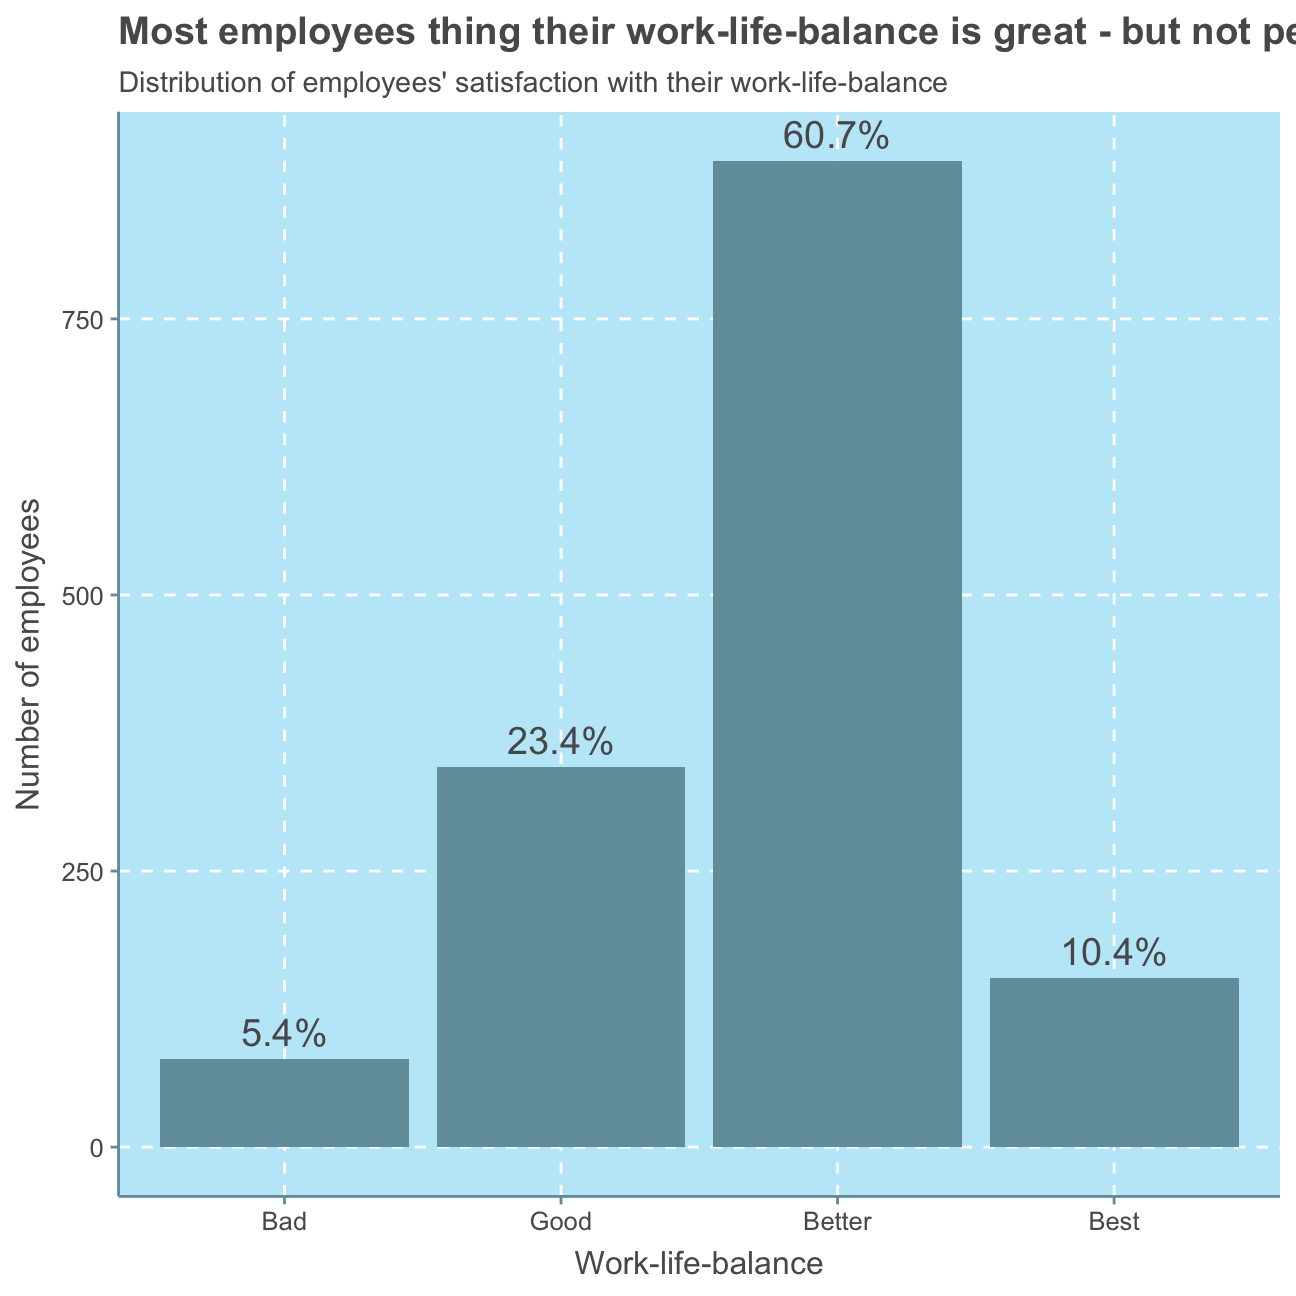
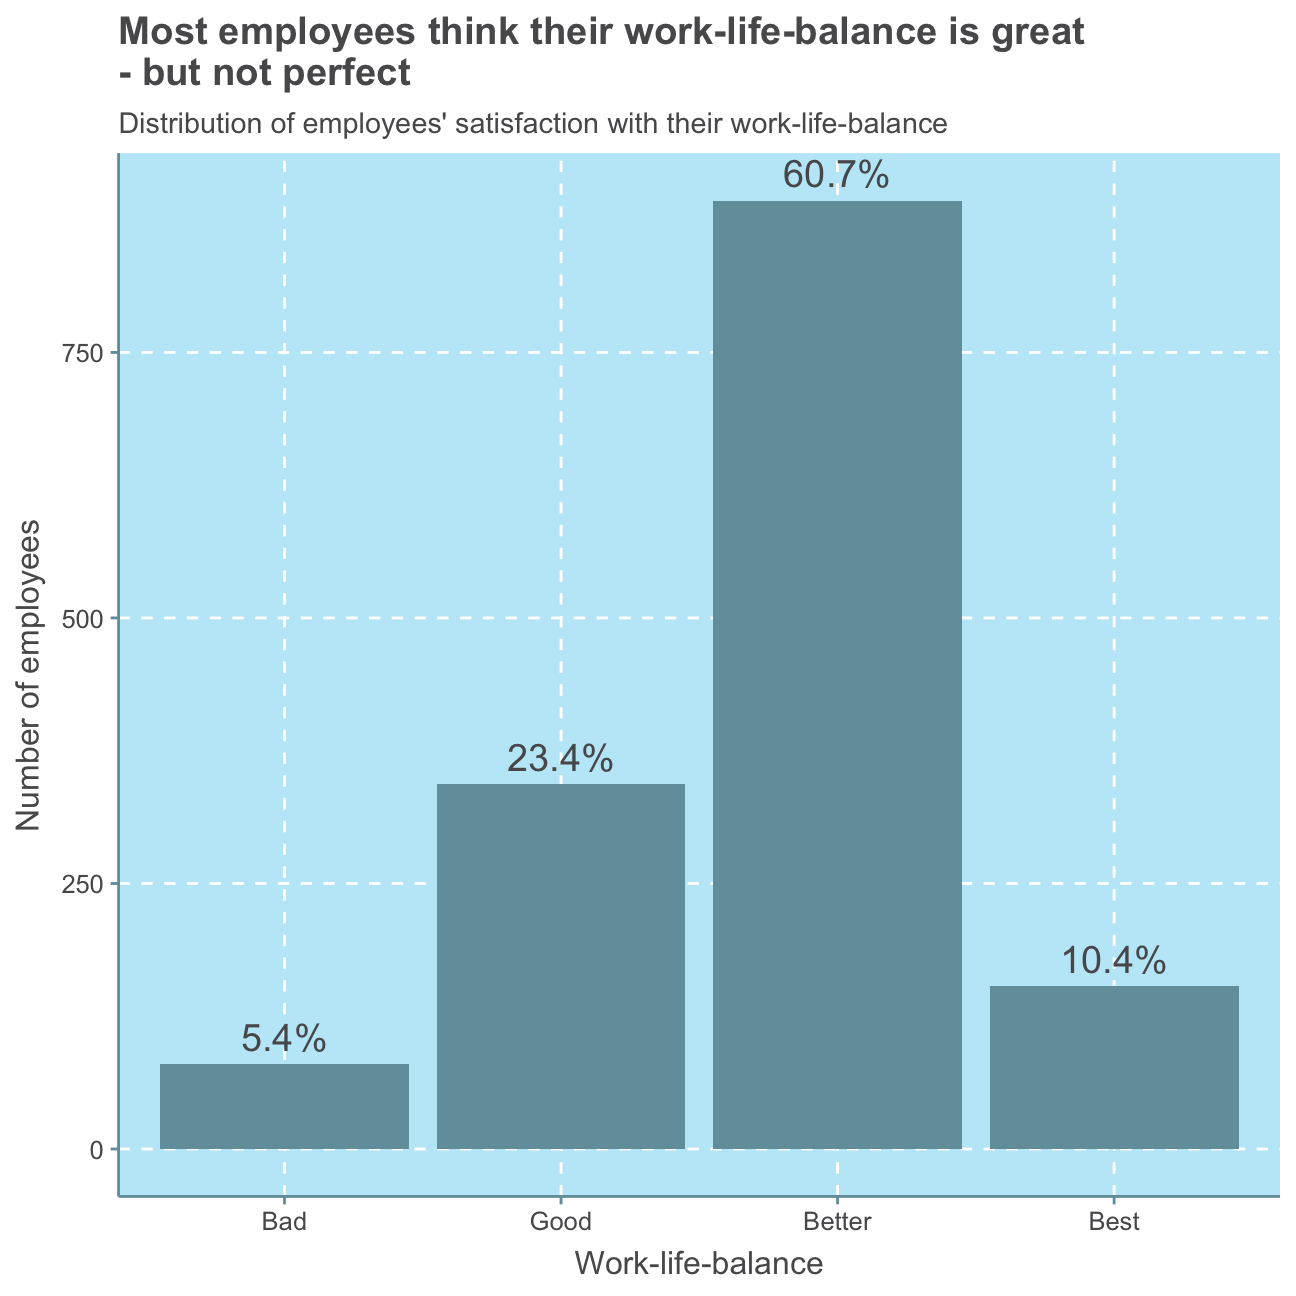
polished IBM HR project

diff --git a/public/projects/ibmhr/index.html b/public/projects/ibmhr/index.html
@@ -81,10 +81,10 @@
                             
 
 
-<p><img src="https://www.ibm.com/innovate/branding/logoartwork/logoartwork.nsf/IBM_logo_blue60_CMYK.jpg" /></p>
+<p>In the following project, we will investigate a data set on Human Resoruce Analytics. The <a href="https://www.kaggle.com/pavansubhasht/ibm-hr-analytics-attrition-dataset">IBM HR Analytics Employee Attrition &amp; Performance data set</a> is a fictional data set created by IBM data scientists.</p>
+<p>We start by loading and having a first look at the data, then cleaning the data, then visualizing some of the most relevant relationships between the variables of the data set and finish this analysis by drawing some conclusions about the interpretation of the data.</p>
 <div id="data-set" class="section level1">
 <h1>Data set</h1>
-<p>In this project, we analyse a data set on Human Resoruce Analytics. The <a href="https://www.kaggle.com/pavansubhasht/ibm-hr-analytics-attrition-dataset">IBM HR Analytics Employee Attrition &amp; Performance data set</a> is a fictional data set created by IBM data scientists.</p>
 <p>First, we load the data and have a first look at it.</p>
 <pre class="r"><code>#load data
 hr_dataset &lt;- vroom(here::here(&quot;data&quot;, &quot;datasets_1067_1925_WA_Fn-UseC_-HR-Employee-Attrition.csv&quot;))
@@ -1633,7 +1633,7 @@ ggplot(hr_cleaned,
             size = 5) + #size of label font
 
 #add plot labels
-            labs(title = &quot;Most employees thing their work-life-balance is great - but not perfect&quot;, 
+            labs(title = &quot;Most employees think their work-life-balance is great\n- but not perfect&quot;, 
                  subtitle = &quot;Distribution of employees&#39; satisfaction with their work-life-balance&quot;,
                  x = &quot;Work-life-balance&quot;,
                  y = &quot;Number of employees&quot;) +
@@ -1922,6 +1922,7 @@ ggplot(hr_cleaned,
 <p>To conclude, the <strong>IBM HR Analytics Employee Attrition &amp; Performance data set</strong> gives a broad overview of the dynamics of a group of employees in a fictional company. While we can observe an attrition rate of 19%, we cannot judge whether this is high or low as we have no indication of the industry in which this company works in and what is considered a high/low attrition rate there. We do, however, find that both job satisfaction and opinion on work-life balance are high/good. This indicates that most employees are satisfied and there is no high attrition due to an unpleasant work environment or stressful jobs.</p>
 <p>While we can observe an almost Normal distribution for the employees’ age, we find that the majority of employees has been at the company less then approx. 10 years. There are, however, a few people that have worked at the company for 20 or even over 30 years. We, further find that employees are relatively quickly promoted as for most employees, the last promotion is fewer than approx. 3 years ago while for almost no employee the last promotion is over 10 years ago. While there are a few people earning more than 10,000USD per month, the majority of employees earn below, indicating a common company structure with many low-salary jobs and only few high-salary jobs.</p>
 <p>When investigating the monthly income in detail, we neither find a distinct relationship between monthly income and education level nor between monthly income and gender. We do however find positive relationships between monthly income and age as well as monthly income and job role, indicating that an older employee is more likely to be in a senior job position and the more senior a job position is, the higher the salary.</p>
+<p><img src="https://www.ibm.com/innovate/branding/logoartwork/logoartwork.nsf/IBM_logo_blue60_CMYK.jpg" /></p>
 </div>
 
                         </div>

diff --git a/content/projects/ibmhr/index.html b/content/projects/ibmhr/index.html
@@ -15,10 +15,10 @@ output:
 
 
 
-<p><img src="https://www.ibm.com/innovate/branding/logoartwork/logoartwork.nsf/IBM_logo_blue60_CMYK.jpg" /></p>
+<p>In the following project, we will investigate a data set on Human Resoruce Analytics. The <a href="https://www.kaggle.com/pavansubhasht/ibm-hr-analytics-attrition-dataset">IBM HR Analytics Employee Attrition &amp; Performance data set</a> is a fictional data set created by IBM data scientists.</p>
+<p>We start by loading and having a first look at the data, then cleaning the data, then visualizing some of the most relevant relationships between the variables of the data set and finish this analysis by drawing some conclusions about the interpretation of the data.</p>
 <div id="data-set" class="section level1">
 <h1>Data set</h1>
-<p>In this project, we analyse a data set on Human Resoruce Analytics. The <a href="https://www.kaggle.com/pavansubhasht/ibm-hr-analytics-attrition-dataset">IBM HR Analytics Employee Attrition &amp; Performance data set</a> is a fictional data set created by IBM data scientists.</p>
 <p>First, we load the data and have a first look at it.</p>
 <pre class="r"><code>#load data
 hr_dataset &lt;- vroom(here::here(&quot;data&quot;, &quot;datasets_1067_1925_WA_Fn-UseC_-HR-Employee-Attrition.csv&quot;))
@@ -1567,7 +1567,7 @@ ggplot(hr_cleaned,
             size = 5) + #size of label font
 
 #add plot labels
-            labs(title = &quot;Most employees thing their work-life-balance is great - but not perfect&quot;, 
+            labs(title = &quot;Most employees think their work-life-balance is great\n- but not perfect&quot;, 
                  subtitle = &quot;Distribution of employees&#39; satisfaction with their work-life-balance&quot;,
                  x = &quot;Work-life-balance&quot;,
                  y = &quot;Number of employees&quot;) +
@@ -1856,4 +1856,5 @@ ggplot(hr_cleaned,
 <p>To conclude, the <strong>IBM HR Analytics Employee Attrition &amp; Performance data set</strong> gives a broad overview of the dynamics of a group of employees in a fictional company. While we can observe an attrition rate of 19%, we cannot judge whether this is high or low as we have no indication of the industry in which this company works in and what is considered a high/low attrition rate there. We do, however, find that both job satisfaction and opinion on work-life balance are high/good. This indicates that most employees are satisfied and there is no high attrition due to an unpleasant work environment or stressful jobs.</p>
 <p>While we can observe an almost Normal distribution for the employees’ age, we find that the majority of employees has been at the company less then approx. 10 years. There are, however, a few people that have worked at the company for 20 or even over 30 years. We, further find that employees are relatively quickly promoted as for most employees, the last promotion is fewer than approx. 3 years ago while for almost no employee the last promotion is over 10 years ago. While there are a few people earning more than 10,000USD per month, the majority of employees earn below, indicating a common company structure with many low-salary jobs and only few high-salary jobs.</p>
 <p>When investigating the monthly income in detail, we neither find a distinct relationship between monthly income and education level nor between monthly income and gender. We do however find positive relationships between monthly income and age as well as monthly income and job role, indicating that an older employee is more likely to be in a senior job position and the more senior a job position is, the higher the salary.</p>
+<p><img src="https://www.ibm.com/innovate/branding/logoartwork/logoartwork.nsf/IBM_logo_blue60_CMYK.jpg" /></p>
 </div>

diff --git a/content/projects/brexitvoting/index.html b/content/projects/brexitvoting/index.html
@@ -426,7 +426,7 @@ Generally, the points in the plot clearly cluster in the upper right corner, sho
   
   #pivot longer to summarize party variables
             pivot_longer(2:5, names_to = &quot;party&quot;, values_to = &quot;percent&quot; )             </code></pre>
-<p>With the manipulated data set, we can now produce a plot that shows the relationship between a voter’s political affiliation and the leave-share. In order to colour each political party with its actual party colour, we find the official colour codes per party <a href="http://blog.richardallen.co.uk/uk-political-party-web-colours/">here</a>.</p>
+<p>With the manipulated data set, we can now produce a plot that shows the relationship between a voter’s political affiliation and the leave-share. In order to colour each political party with its actual party colour, we find the official colour codes per party <a href="https://blog.richardallen.co.uk/uk-political-party-web-colours/">here</a>.</p>
 <pre class="r"><code>#reset ggtjemr theme because we will add own aes to the next plot
 ggthemr_reset() 
 

diff --git a/public/projects/brexitvoting/index.html b/public/projects/brexitvoting/index.html
@@ -492,7 +492,7 @@ Generally, the points in the plot clearly cluster in the upper right corner, sho
   
   #pivot longer to summarize party variables
             pivot_longer(2:5, names_to = &quot;party&quot;, values_to = &quot;percent&quot; )             </code></pre>
-<p>With the manipulated data set, we can now produce a plot that shows the relationship between a voter’s political affiliation and the leave-share. In order to colour each political party with its actual party colour, we find the official colour codes per party <a href="http://blog.richardallen.co.uk/uk-political-party-web-colours/">here</a>.</p>
+<p>With the manipulated data set, we can now produce a plot that shows the relationship between a voter’s political affiliation and the leave-share. In order to colour each political party with its actual party colour, we find the official colour codes per party <a href="https://blog.richardallen.co.uk/uk-political-party-web-colours/">here</a>.</p>
 <pre class="r"><code>#reset ggtjemr theme because we will add own aes to the next plot
 ggthemr_reset() 
 
